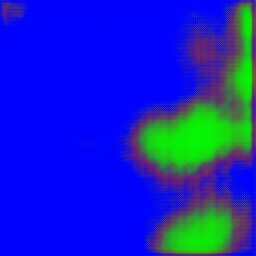
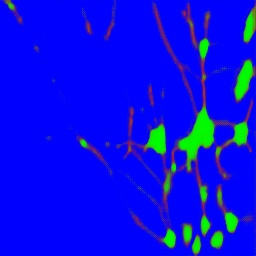
glp and brightnes contrast changes made

diff --git a/histogramequalized.py b/histogramequalized.py
@@ -26,22 +26,25 @@ input_image = cv2.imread(input_image_path, cv2.IMREAD_GRAYSCALE)
 input_image = cv2.resize(input_image, (256, 256))  # Giriş boyutunu (256, 256) olarak yeniden boyutlandırma
 input_image = np.expand_dims(input_image, axis=-1)  # Tek bir kanal ekleyerek (256, 256) boyutunu (256, 256, 1) olarak genişletiyoruz
 
-gaus_kernel_x=3
-gaus_kernel_y=3
-gaus_kernel_std_dev=0
+alpha = 0.5  # Contrast control (1.0 means no change)
+beta = 1    # Brightness control (0 means no change)
 kernelSize=[]
 iouScore=[]
 
 
 
-for i in range(50):
+for i in range(40):
     ### Burada Görüntü İşlemeleri Yap ↓↓↓↓↓↓
     # gaus_kerneller her zaman tek sayı olmalı çift sayıda hata verir 
-    blurred_image = cv2.GaussianBlur(input_image, (gaus_kernel_x, gaus_kernel_y), gaus_kernel_std_dev+i)
+
+  
+    adjusted_image = cv2.convertScaleAbs(input_image, alpha=alpha, beta=beta+(0.1*i))
+
+   
     
     ### Burada Görüntü İşlemeleri Yap ^^^^^^^^^^^^^^
     # Tahmin yapma
-    prediction_result = model.predict(np.expand_dims(blurred_image, axis=0))
+    prediction_result = model.predict(np.expand_dims(adjusted_image, axis=0))
     # Numpy dizisini JPEG dosyasına dönüştürme
     output_image_path = 'prediction_resulttemp.jpg'
     prediction_result = (prediction_result * 255).astype(np.uint8)
@@ -53,11 +56,11 @@ for i in range(50):
     #  output_image_gray iou score için hazır boyutlu ve grayscale
 
      # Grafik için data toplama  
-    kernelSize.append(gaus_kernel_std_dev+i)
+    kernelSize.append(beta+(0.1*i))
     iou=calcul.iou(output_image_gray,input_image)
     iouScore.append(iou)
 
 
 ### Burada grafik isimlendirmesi oluyor  graphmaker2d.py dosyasında açıklaması var  ↓↓↓↓↓↓
-gmaker.graph(kernelSize, iouScore ,"GLP - IOU Score normalized outputs Sigma Change while kernel is 11by11" ,xname="Gaussian Standart Dev")
+gmaker.graph(kernelSize, iouScore ,"GLP - IOU Brightnes  beta from 1 " ,xname="brightnes beta")
 
